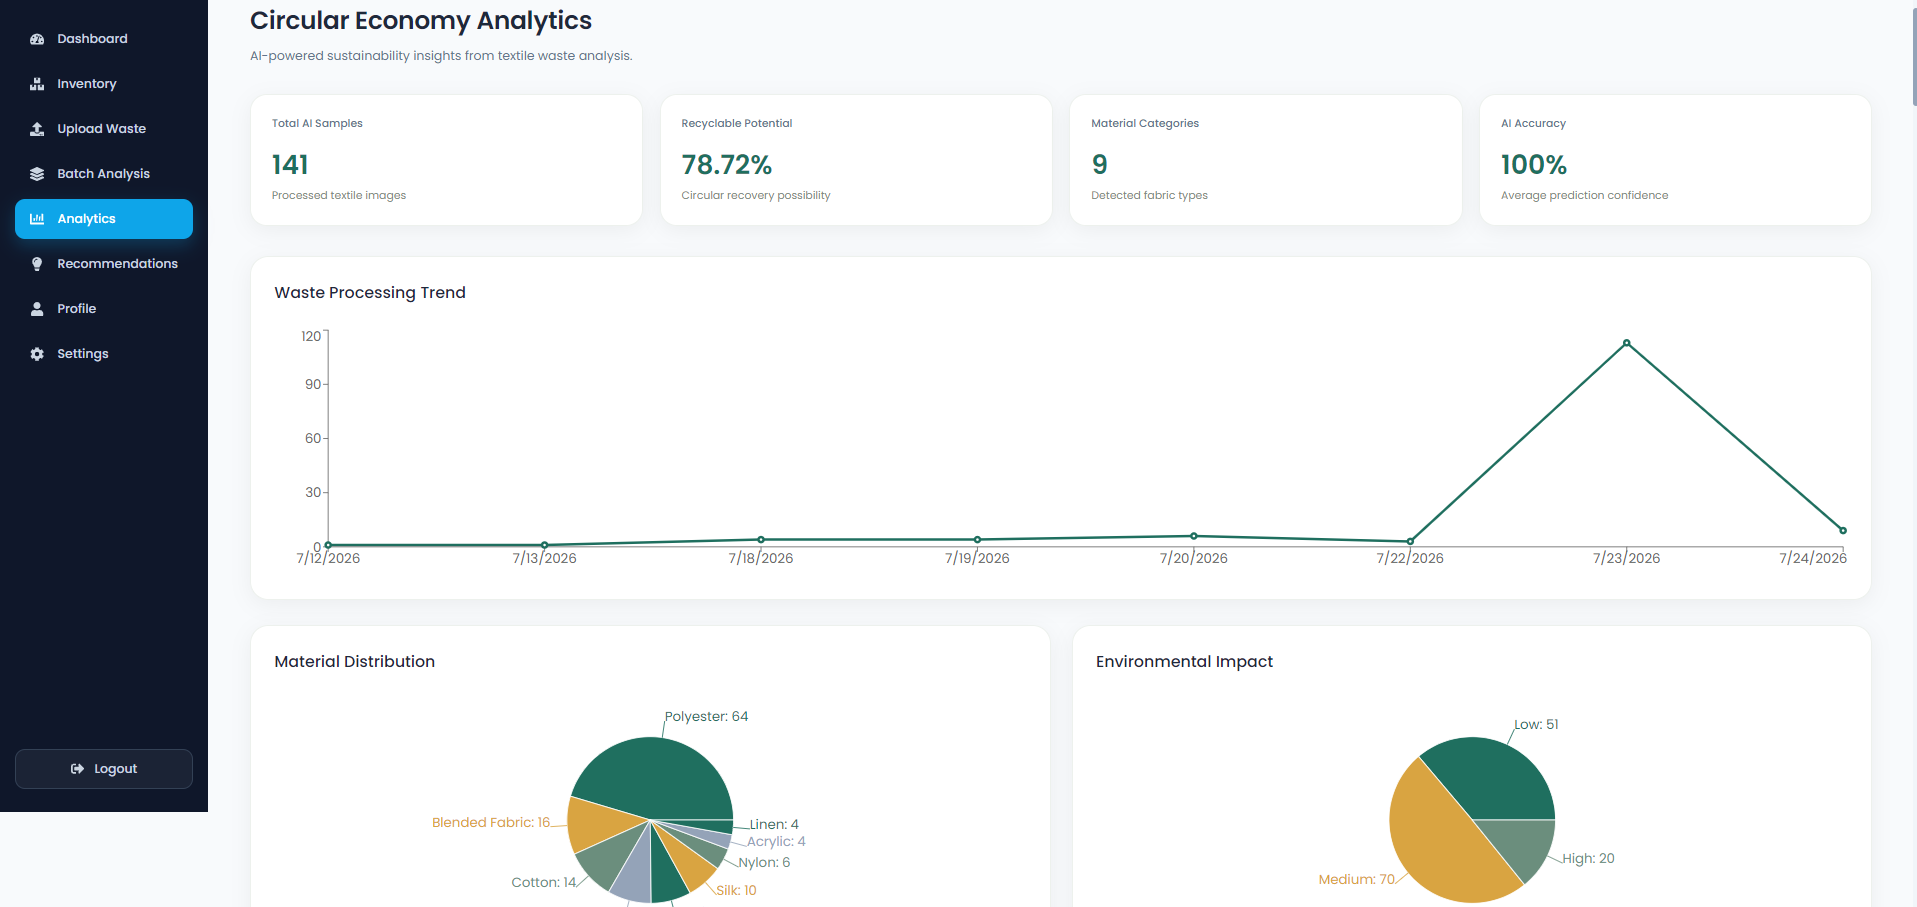
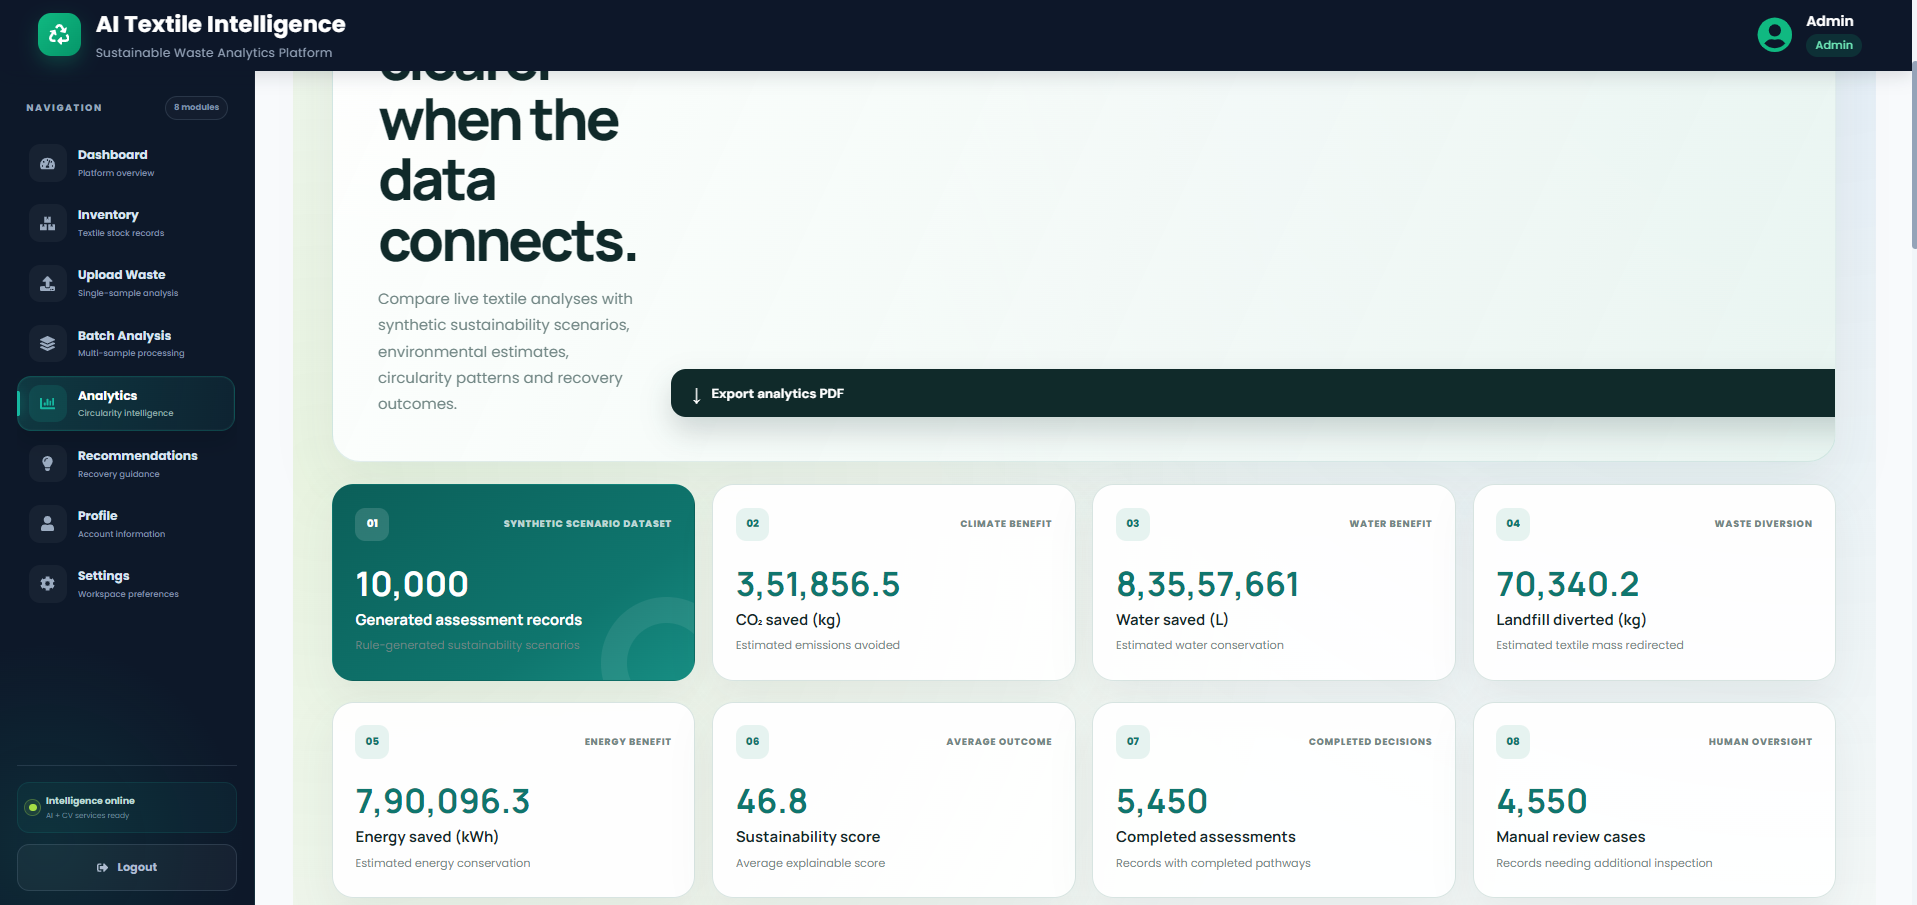
Complete Milestone 3 documentation and update application screenshots

diff --git a/frontend/src/components/Sidebar/Sidebar.css b/frontend/src/components/Sidebar/Sidebar.css
@@ -9,13 +9,14 @@
   --sb-lime: #a5dc45;
 
   position: sticky;
-  top: 0;
+  top: 78px;
   z-index: 40;
   display: flex;
   width: 272px;
   height: calc(100vh - 78px);
   min-height: 620px;
   flex: 0 0 272px;
+  align-self: flex-start;
   flex-direction: column;
   overflow: hidden;
   padding: 26px 18px 20px;
@@ -492,7 +493,6 @@
     display: inline;
   }
 }
-
 
 @media (max-width: 480px) {
   .app-sidebar {

diff --git a/frontend/src/components/Navbar/Navbar.css b/frontend/src/components/Navbar/Navbar.css
@@ -286,7 +286,13 @@
 
 
 }
-
+.navbar {
+  position: sticky;
+  top: 0;
+  z-index: 1000;
+  width: 100%;
+  background: #0d1729;
+}
 
 
 
